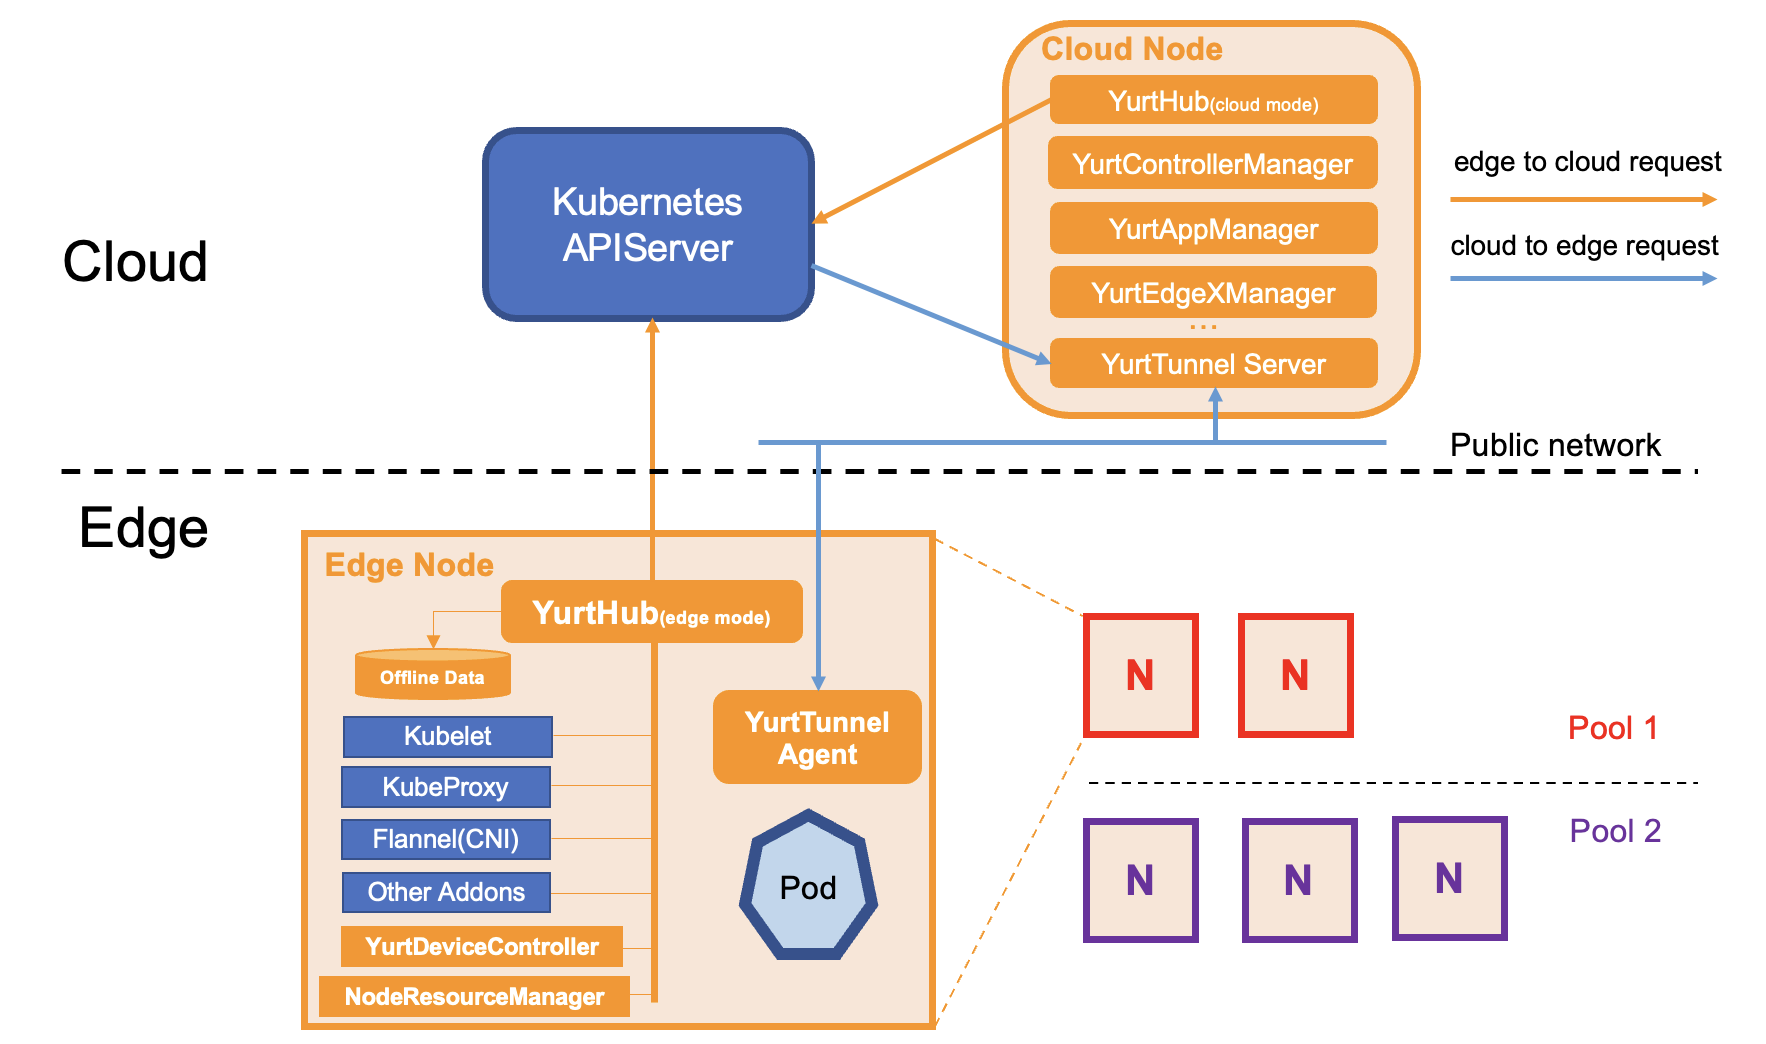
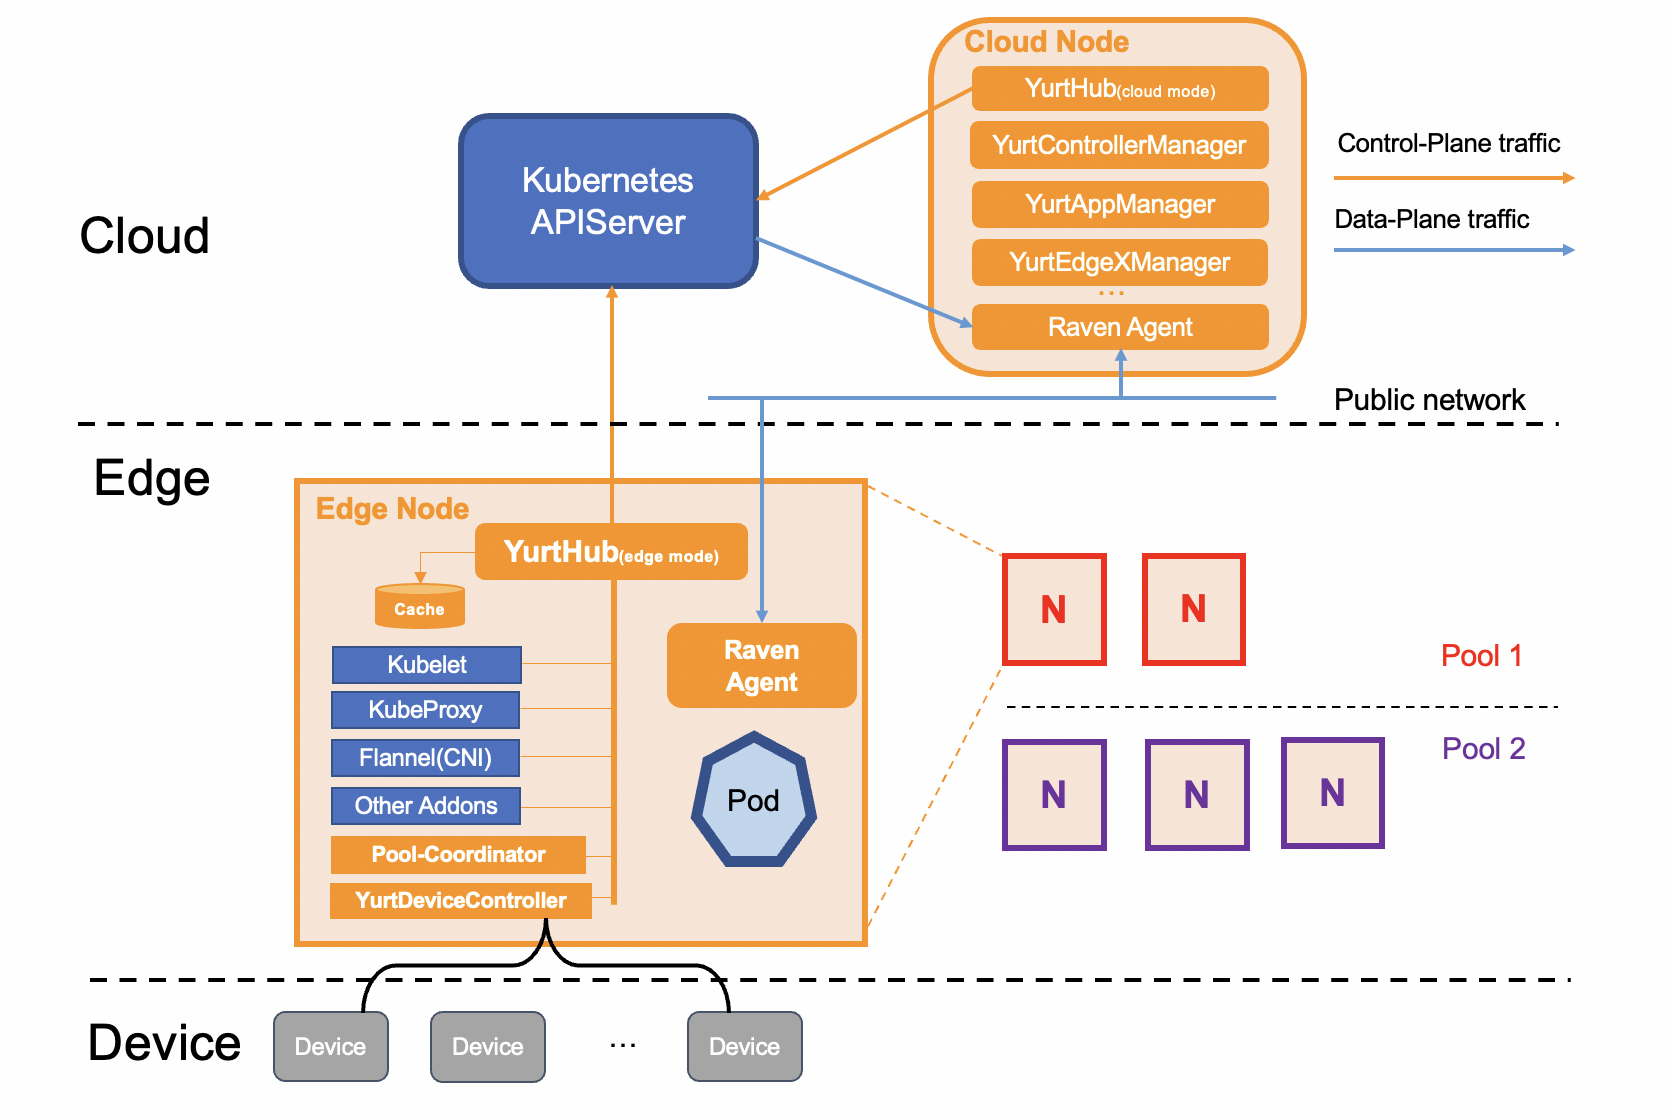
update arch for openyurt

diff --git a/docs/core-concepts/architecture.md b/docs/core-concepts/architecture.md
@@ -54,6 +54,6 @@ With this feature, it's easily to send operate instructions from cloud to edge, 
   - YurtDeviceController and YurtEdgeXManager manage edge devices in cloud native way, they combine EdgeX Foundry and OpenYurt seamlessly, providing IOT solutions in an easy, efficient way.
   - Deployment pattern: Deployment for YurtEdgeXManager in cloud nodes, YurtAppSet for YurtDeviceController in each edge nodepool.
 
-- **NodeResourceManager:**
-  - NodeResourceManager manages local resources in cluster nodes, user can modify the local resource definitions with configmap dynamically.
-  - Deployment pattern: DaemonSet in Edge nodes.
+- **Pool-Coordinator:**
+  - Provide KV data storage (stored only in memory) and distributed lock capabilities in the node pool, so that YurtHub can elect a Leader, so as to realize heartbeat proxy, cloud edge traffic reuse, operation and maintenance monitoring in the node pool, etc.
+  - Deployment pattern: YurtAppDaemon and ensures one instance per edge node pool.
